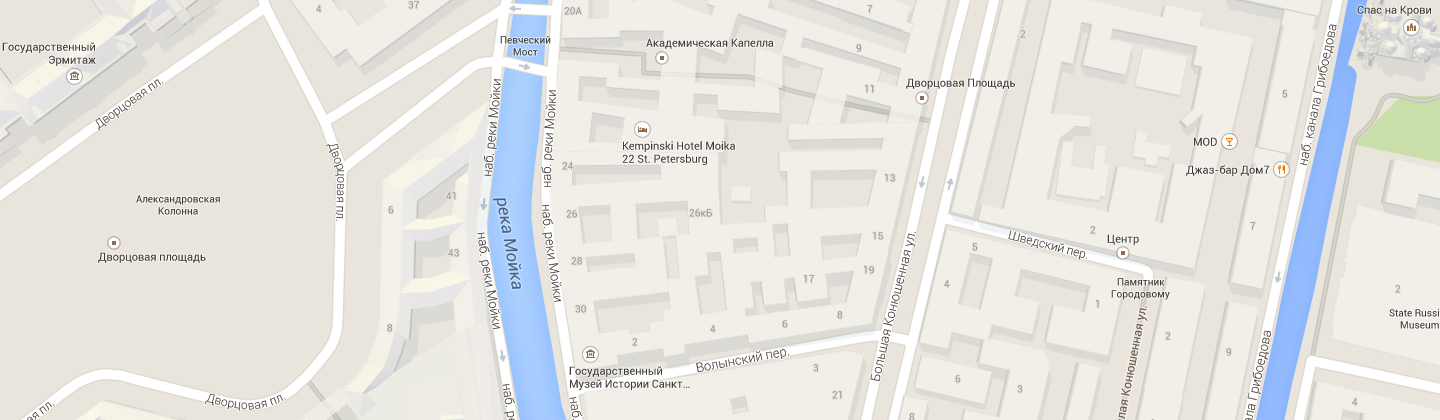
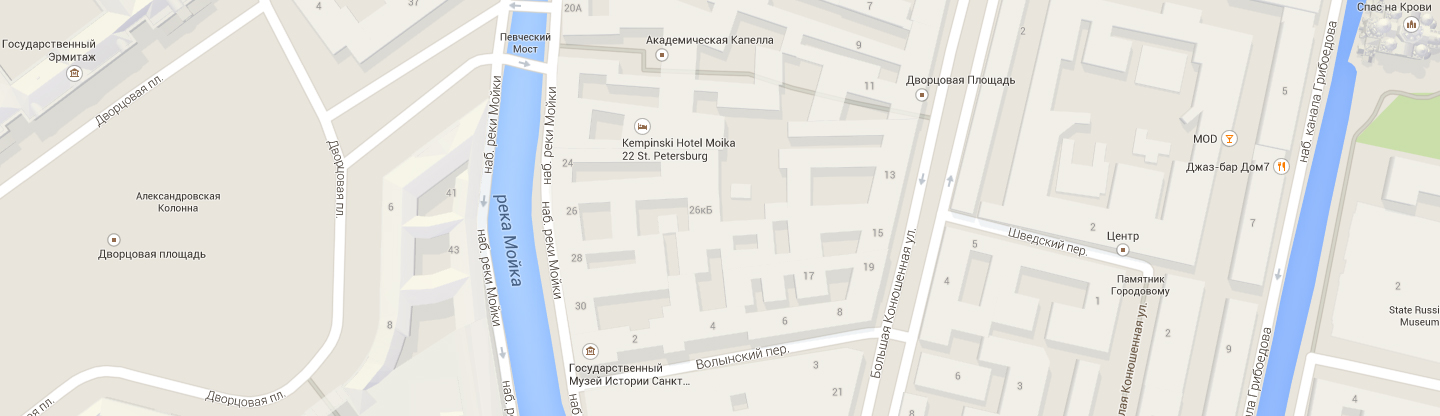
Устранение замечаний по CSS

diff --git a/css/style.css b/css/style.css
@@ -27,7 +27,7 @@ a {
 }
 
 .container {
-  max-width: 1240px;
+  width: 1240px;
   margin: 0 auto;
   padding: 0 20px;
   box-sizing: border-box;
@@ -42,6 +42,7 @@ a {
 }
 
 .main-header {
+  width: 100%;
   margin-bottom: 62px;
   background-color: #eee;
 }
@@ -119,13 +120,15 @@ a.menu-active {
 
 /* */
 .map-block {
-  width:1340px;
   position: relative;
+  max-width: 1440px;
+  overflow: hidden;
   margin: 0 auto;
   text-align: center;
 }
 
 .map {
+  display: block;
   position: relative;
   left: 50%;
   transform: translateX(-50%);
@@ -187,8 +190,8 @@ a.menu-active {
 
 /* */
 .main-footer {
-  padding-bottom: 58px;
-  padding-top: 58px;
+  padding-bottom: 68px;
+  padding-top: 68px;
 }
 
 .social-links {
@@ -380,6 +383,7 @@ a.menu-active {
 }
 
 .popup-btn {
+  display: block;
   width: 260px;
   padding: 18px 18px 14px 18px;
   box-sizing: border-box;
@@ -747,7 +751,6 @@ a.menu-active {
 /* */
 .main-catalog-content {
   display: flex;
-  width: 780px;
 }
 
 
@@ -1008,7 +1011,6 @@ a.menu-active {
 .template-sort {
   display: flex;
   align-items: center;
-  width: 780px;
   margin-bottom: 55px;
 }
 
@@ -1116,7 +1118,8 @@ a.menu-active {
 /* */
 .catalog-items {
   margin: 0;
-  margin-bottom: 38px;
+  margin-right: -40px;
+  margin-bottom: 28px;
   padding: 0;
   display: flex;
   flex-wrap: wrap;
@@ -1125,6 +1128,7 @@ a.menu-active {
 .catalog-item {
   position: relative;
   margin: 0;
+  margin-right: 40px;
   margin-bottom: 27px;
   padding: 0;
   list-style: none;
@@ -1138,10 +1142,6 @@ a.menu-active {
   font-size: 130px;
   letter-spacing: -10px;
   color: #fff;
-}
-
-.catalog-items .catalog-item:nth-child(odd) {
-  margin-right: 40px;
 }
 
 .item-desk {
@@ -1225,7 +1225,7 @@ a.menu-active {
   margin: 0;
   padding: 0;
   margin-left: 400px;
-  margin-bottom: 75px;
+  margin-bottom: 61px;
 }
 
 .pagination li {
@@ -1233,7 +1233,8 @@ a.menu-active {
 }
 
 .link-pagination {
-  margin-right: 11px;
+  display: block;
+  margin-right: 12px;
   padding: 15px 20px;
   color: #000;
   border-radius: 5px;
@@ -1241,7 +1242,7 @@ a.menu-active {
 }
 
 .link-pagination:hover {
-background-color: #dfdfdf;
+  background-color: #dfdfdf;
 }
 
 .link-pagination:focus {

diff --git a/catalog.html b/catalog.html
@@ -185,7 +185,7 @@
 
 		<!-- Блок карты -->
 		<div class="map-block">
-			<img class="map" src="img/map.jpg" alt="Студия на карте" width="1340" height="420">
+			<img class="map" src="img/map.jpg" alt="Студия на карте" width="1440px" height="415">
 			<section class="contacts-block">
 				<h2 class="visually-hidden">Контакты</h2>
 				<p class="name-block">Nёrds disign studio</p>

diff --git a/index.html b/index.html
@@ -153,7 +153,7 @@
 
 		<!-- Блок карты -->
 		<div class="map-block">
-			<img class="map" src="img/map.jpg" alt="Студия на карте" width="1340" height="420">
+			<img class="map" src="img/map.jpg" alt="Студия на карте" width="1440px" height="415">
 			<section class="contacts-block">
 				<h2 class="visually-hidden">Контакты</h2>
 				<p class="name-block">Nёrds disign studio</p>
